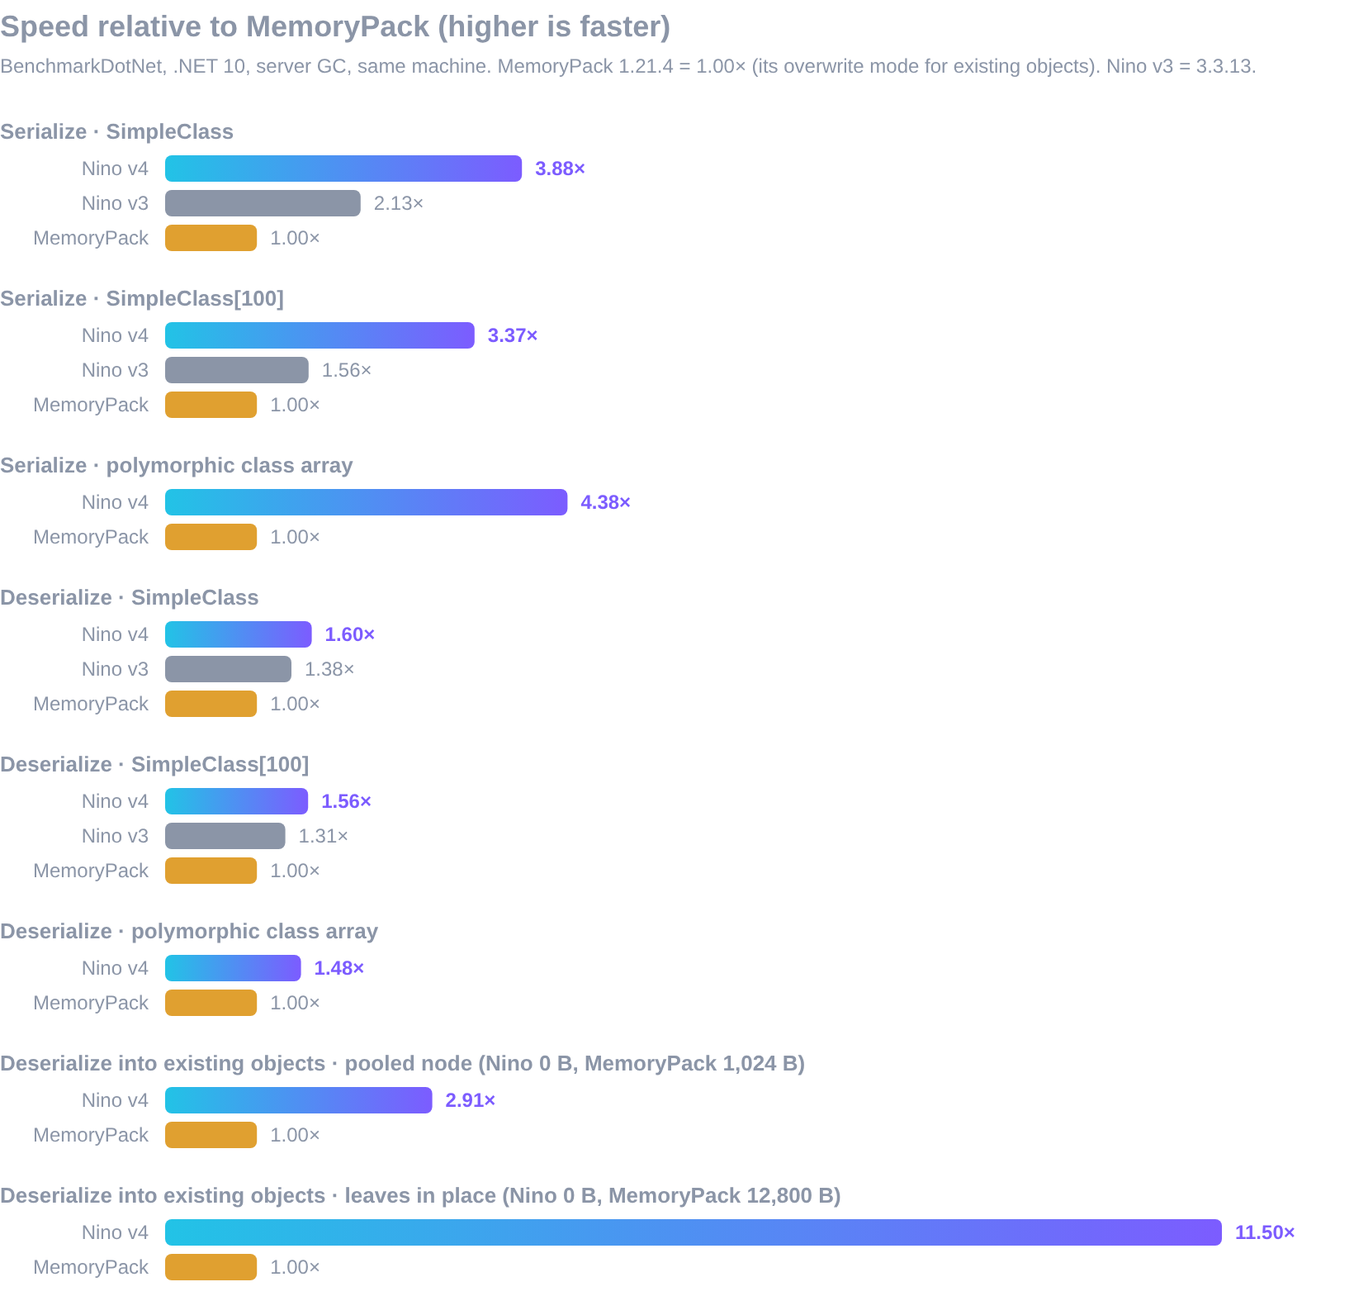
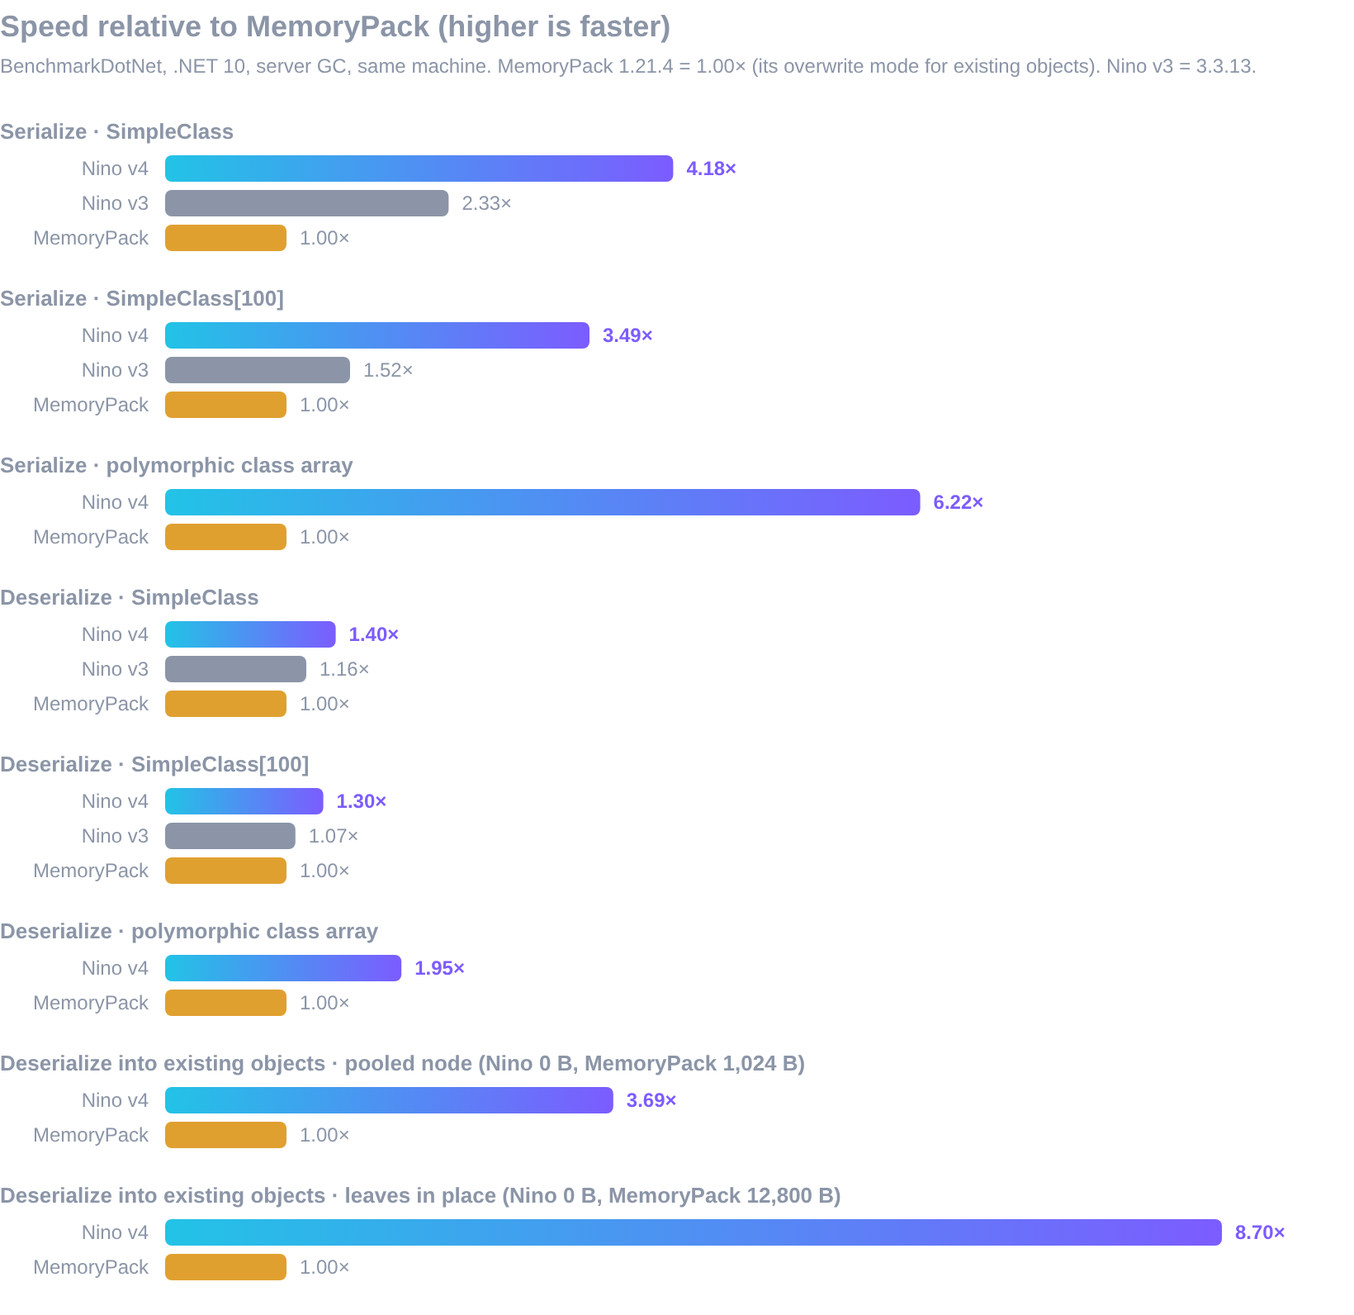
Update README benchmark numbers for v4.0.0-rc.7

diff --git a/docs/v4-benchmarks.md b/docs/v4-benchmarks.md
@@ -54,7 +54,7 @@ GC), all ten benchmark classes, v4 and MemoryPack 1.21.4 side by side: the relea
 runners per architecture and keeps each case's Nino and MemoryPack runs on one. v3 is Nino 3.3.13 from nuget.org, running a port of
 the same `SimpleTest` (same data, same attributes) on the same runner directly before the v4 session; it has no
 polymorphic, pooling, reference, version-tolerant or fixed-size benchmarks. These tables come from
-<!--bench:doc.source-->the performance report of [v4.0.0-rc.6](https://github.com/JasonXuDeveloper/Nino/releases/tag/v4.0.0-rc.6): BenchmarkDotNet 0.15.8, .NET 10.0.13, AMD EPYC 7763 2.59 GHz; v3 3.3.13 from NuGet ran directly before v4 on the same machine<!--/bench-->.
+<!--bench:doc.source-->the performance report of [v4.0.0-rc.7](https://github.com/JasonXuDeveloper/Nino/releases/tag/v4.0.0-rc.7): BenchmarkDotNet 0.15.8, .NET 10.0.13, INTEL XEON PLATINUM 8573C 3.50 GHz; v3 3.3.13 from NuGet ran directly before v4 on the same machine<!--/bench-->.
 
 Differences under 5% are reported as on par: MemoryPack runs in both sessions, and its two times show how much the
 runner moved. A time under 1 ns (about three clock cycles) cannot be told apart from another: reading a 40-byte struct
@@ -74,14 +74,14 @@ seeded, so every run serializes the same values.
 <!--bench:doc.table.serialize-->
 | Case | v4 | MemoryPack | v3 | v4 vs MemoryPack | v4 vs v3 |
 |---|---:|---:|---:|---:|---:|
-| `SimpleClass` | 102 ns | 396 ns | 186 ns | **3.88× faster** | **1.82× faster** |
-| `SimpleClass[100]` | 11.7 µs | 39.6 µs | 25.3 µs | **3.37× faster** | **2.16× faster** |
-| Polymorphic class | 6.64 µs | 35.7 µs | — | **5.38× faster** | — |
-| Polymorphic class array | 77.5 µs | 339 µs | — | **4.38× faster** | — |
-| Polymorphic `Foo[]` | 6.91 µs | 38.7 µs | — | **5.60× faster** | — |
-| `SimpleStruct` (`int` + `DateTime`) | 4.54 ns | 5.14 ns | 3.62 ns | **1.13× faster** | — |
-| `SimpleStruct[100]` | 21.9 ns | 22.5 ns | 22.5 ns | on par | on par |
-| `Vector4[10000]` | 3.31 µs | 3.44 µs | 3.31 µs | on par | on par |
+| `SimpleClass` | 69.6 ns | 291 ns | 125 ns | **4.18× faster** | **1.79× faster** |
+| `SimpleClass[100]` | 7.84 µs | 27.4 µs | 18.0 µs | **3.49× faster** | **2.29× faster** |
+| Polymorphic class | 6.30 µs | 43.0 µs | — | **6.83× faster** | — |
+| Polymorphic class array | 58.8 µs | 365 µs | — | **6.22× faster** | — |
+| Polymorphic `Foo[]` | 6.86 µs | 39.5 µs | — | **5.76× faster** | — |
+| `SimpleStruct` (`int` + `DateTime`) | < 1 ns | 2.44 ns | 1.28 ns | **faster** (too fast to measure) | **faster** (too fast to measure) |
+| `SimpleStruct[100]` | 11.7 ns | 14.2 ns | 13.2 ns | **1.22× faster** | **1.13× faster** |
+| `Vector4[10000]` | 3.57 µs | 3.53 µs | 3.64 µs | on par | on par |
 <!--/bench-->
 
 `SimpleStruct` is declared with `[StructLayout(LayoutKind.Sequential, Pack = 4)]`: 12 bytes, no padding, so every
@@ -96,14 +96,14 @@ earlier run with the padded struct, that masked copy made `SimpleStruct[100]` se
 <!--bench:doc.table.deserialize-->
 | Case | v4 | MemoryPack | v3 | v4 vs MemoryPack | v4 vs v3 |
 |---|---:|---:|---:|---:|---:|
-| `SimpleClass` | 463 ns | 739 ns | 537 ns | **1.60× faster** | **1.16× faster** |
-| `SimpleClass[100]` | 48.2 µs | 75.1 µs | 57.4 µs | **1.56× faster** | **1.19× faster** |
-| Polymorphic class | 17.8 µs | 30.2 µs | — | **1.69× faster** | — |
-| Polymorphic class array | 258 µs | 382 µs | — | **1.48× faster** | — |
-| Polymorphic `Foo[]` | 15.5 µs | 28.9 µs | — | **1.87× faster** | — |
-| `SimpleStruct` (`int` + `DateTime`) | < 1 ns | 1.46 ns | < 1 ns | **faster** (too fast to measure) | on par |
-| `SimpleStruct[100]` | 85.4 ns | 101 ns | 86.1 ns | **1.18× faster** | on par |
-| `Vector4[10000]` | 124 µs | 121 µs | 121 µs | on par | on par |
+| `SimpleClass` | 366 ns | 514 ns | 443 ns | **1.40× faster** | **1.21× faster** |
+| `SimpleClass[100]` | 39.2 µs | 51.1 µs | 47.6 µs | **1.30× faster** | **1.21× faster** |
+| Polymorphic class | 17.9 µs | 30.6 µs | — | **1.71× faster** | — |
+| Polymorphic class array | 202 µs | 392 µs | — | **1.95× faster** | — |
+| Polymorphic `Foo[]` | 15.5 µs | 28.3 µs | — | **1.83× faster** | — |
+| `SimpleStruct` (`int` + `DateTime`) | < 1 ns | < 1 ns | < 1 ns | on par | on par |
+| `SimpleStruct[100]` | 76.9 ns | 88.7 ns | 82.0 ns | **1.15× faster** | **1.07× faster** |
+| `Vector4[10000]` | 96.2 µs | 95.3 µs | 97.5 µs | on par | on par |
 <!--/bench-->
 
 
@@ -123,10 +123,10 @@ Nino can deserialize into an existing object graph (reuse deserialization) and t
 <!--bench:doc.table.reuse-->
 | Case | Nino new | Nino reusing | MemoryPack new | MemoryPack overwrite | Nino reusing vs overwrite |
 |---|---:|---:|---:|---:|---:|
-| Pooled node | 581 ns | **206 ns** (0 B) | 687 ns | 597 ns (1,024 B) | **2.91× faster** |
-| Pooled leaves, in place | 3.17 µs | **486 ns** (0 B) | 3.86 µs | 5.59 µs (12,800 B) | **11.50× faster** |
-| Pooled leaves, pooled elements | 3.17 µs | **3.47 µs** (856 B) | 3.86 µs | 5.59 µs (12,800 B) | **1.61× faster** |
-| Pooled class | 470 ns | **298 ns** (0 B) | 708 ns | 606 ns (1,080 B) | **2.03× faster** |
+| Pooled node | 240 ns | **70.3 ns** (0 B) | 319 ns | 259 ns (1,024 B) | **3.69× faster** |
+| Pooled leaves, in place | 1.61 µs | **257 ns** (0 B) | 1.89 µs | 2.24 µs (12,800 B) | **8.70× faster** |
+| Pooled leaves, pooled elements | 1.61 µs | **1.36 µs** (773 B) | 1.89 µs | 2.24 µs (12,800 B) | **1.64× faster** |
+| Pooled class | 391 ns | **181 ns** (0 B) | 523 ns | 443 ns (1,080 B) | **2.45× faster** |
 <!--/bench-->
 
 The "new" columns allocate the same bytes in both serializers. Reusing is where v4 pulls away: in-place reuse
@@ -153,18 +153,18 @@ MemoryPack writes and parses the zone's whole serialized string on every call.
 <!--bench:doc.table.extra-->
 | Case | Serialize v4 | MemoryPack | v4 vs MemoryPack | Deserialize v4 | MemoryPack | v4 vs MemoryPack |
 |---|---:|---:|---:|---:|---:|---:|
-| Object graph, 200 tracked nodes | 5.63 µs | 29.7 µs | **5.27× faster** | 6.11 µs | 20.3 µs | **3.32× faster** |
-| `TolerantClass` | 107 ns | 513 ns | **4.78× faster** | 506 ns | 814 ns | **1.61× faster** |
-| `TolerantClass[100]` | 12.4 µs | 52.6 µs | **4.26× faster** | 52.9 µs | 84.2 µs | **1.59× faster** |
-| `FixedStruct` | 9.36 ns | 9.19 ns | on par | < 1 ns | 1.04 ns | **faster** (too fast to measure) |
-| `FixedClass` | 10.3 ns | 24.9 ns | **2.42× faster** | 10.4 ns | 22.7 ns | **2.19× faster** |
-| `FixedClass[100]` | 748 ns | 1.74 µs | **2.33× faster** | 1.11 µs | 1.34 µs | **1.21× faster** |
-| `List<Player>`, 100 | 10.6 µs | 26.0 µs | **2.45× faster** | 32.0 µs | 44.9 µs | **1.40× faster** |
-| `List<Order>`, 100 | 9.71 µs | 15.5 µs | **1.60× faster** | 25.9 µs | 32.9 µs | **1.27× faster** |
-| `List<Shape>`, 1,000 (abstract base) | 1.84 µs | 22.9 µs | **12.46× faster** | 11.0 µs | 16.1 µs | **1.47× faster** |
-| `TreeNode`, 1,365 nodes | 15.9 µs | 20.6 µs | **1.29× faster** | 70.3 µs | 73.8 µs | on par |
-| `InventoryItem[1000]` (padded struct) | 90.7 ns | 93.2 ns | on par | 448 ns | 460 ns | on par |
-| `Dictionary<string, string>`, 1,000 | 8.61 µs | 32.7 µs | **3.80× faster** | 40.5 µs | 63.4 µs | **1.56× faster** |
+| Object graph, 200 tracked nodes | 3.00 µs | 17.6 µs | **5.87× faster** | 3.46 µs | 11.7 µs | **3.39× faster** |
+| `TolerantClass` | 76.1 ns | 416 ns | **5.47× faster** | 328 ns | 536 ns | **1.64× faster** |
+| `TolerantClass[100]` | 8.66 µs | 40.0 µs | **4.61× faster** | 32.2 µs | 54.7 µs | **1.70× faster** |
+| `FixedStruct` | 7.88 ns | 8.02 ns | on par | < 1 ns | 1.08 ns | **faster** (too fast to measure) |
+| `FixedClass` | 8.76 ns | 24.8 ns | **2.83× faster** | 8.06 ns | 22.8 ns | **2.83× faster** |
+| `FixedClass[100]` | 563 ns | 1.75 µs | **3.11× faster** | 1.02 µs | 1.38 µs | **1.35× faster** |
+| `List<Player>`, 100 | 8.82 µs | 25.1 µs | **2.85× faster** | 32.7 µs | 41.9 µs | **1.28× faster** |
+| `List<Order>`, 100 | 7.78 µs | 14.8 µs | **1.91× faster** | 24.3 µs | 32.9 µs | **1.35× faster** |
+| `List<Shape>`, 1,000 (abstract base) | 2.04 µs | 22.9 µs | **11.22× faster** | 10.8 µs | 16.6 µs | **1.54× faster** |
+| `TreeNode`, 1,365 nodes | 16.4 µs | 20.0 µs | **1.22× faster** | 53.0 µs | 66.7 µs | **1.26× faster** |
+| `InventoryItem[1000]` (padded struct) | 137 ns | 105 ns | — | 390 ns | 416 ns | **1.07× faster** |
+| `Dictionary<string, string>`, 1,000 | 8.69 µs | 32.7 µs | **3.77× faster** | 31.8 µs | 54.1 µs | **1.70× faster** |
 <!--/bench-->
 
 Deserializing `FixedStruct` is one 40-byte copy, about a clock cycle in both. Serializing it is an allocation

diff --git a/README.md b/README.md
@@ -21,7 +21,7 @@ messaging, caching and storage on .NET, with Unity, Godot and HybridCLR support.
 [**vs MemoryPack**](https://nino.xgamedev.net/en/docs/v4/vs-memorypack) ·
 [**中文**](https://github.com/JasonXuDeveloper/Nino/blob/main/README.zh.md)
 
-**Up to <!--bench:ser.max-->5.6<!--/bench-->× faster** serialization and **up to <!--bench:reuse.inplace-->11.5<!--/bench-->× faster** in-place deserialization than MemoryPack<br>
+**Up to <!--bench:ser.max-->6.8<!--/bench-->× faster** serialization and **up to <!--bench:reuse.inplace-->8.7<!--/bench-->× faster** in-place deserialization than MemoryPack<br>
 **Zero GC** allocations on hot paths · **221× faster** builds than v3
 
 </div>
@@ -40,18 +40,18 @@ messaging, caching and storage on .NET, with Unity, Godot and HybridCLR support.
   <img src="https://raw.githubusercontent.com/JasonXuDeveloper/Nino/main/docs/assets/benchmark.png" alt="Nino v4 vs Nino v3 vs MemoryPack: serialize and deserialize speed" width="760">
 </p>
 
-<sub>BenchmarkDotNet <!--bench:env.bdn-->0.15.8<!--/bench-->, <!--bench:env.runtime-->.NET 10.0.13<!--/bench-->, server GC, <!--bench:env.cpu-->AMD EPYC 7763 2.59 GHz<!--/bench-->; Nino v4 and MemoryPack 1.21.4 in one run, Nino 3.3.13 from NuGet <!--bench:v3.when-->directly before it<!--/bench--> on the same machine. Payloads are about the same size (`SimpleClass`: <!--bench:payload.v4-->1,104<!--/bench--> bytes in v4, 1,152 in v3, <!--bench:payload.memorypack-->1,148<!--/bench--> in MemoryPack). Every case and the method: [docs/v4-benchmarks.md](https://github.com/JasonXuDeveloper/Nino/blob/main/docs/v4-benchmarks.md); the notes of each release carry that release's numbers.</sub>
+<sub>BenchmarkDotNet <!--bench:env.bdn-->0.15.8<!--/bench-->, <!--bench:env.runtime-->.NET 10.0.13<!--/bench-->, server GC, <!--bench:env.cpu-->INTEL XEON PLATINUM 8573C 3.50 GHz<!--/bench-->; Nino v4 and MemoryPack 1.21.4 in one run, Nino 3.3.13 from NuGet <!--bench:v3.when-->directly before it<!--/bench--> on the same machine. Payloads are about the same size (`SimpleClass`: <!--bench:payload.v4-->1,104<!--/bench--> bytes in v4, 1,152 in v3, <!--bench:payload.memorypack-->1,148<!--/bench--> in MemoryPack). Every case and the method: [docs/v4-benchmarks.md](https://github.com/JasonXuDeveloper/Nino/blob/main/docs/v4-benchmarks.md); the notes of each release carry that release's numbers.</sub>
 
 ## Why Nino
 
-- **Faster than MemoryPack.** Serializing classes and polymorphic types is <!--bench:ser.range-->3.4–5.6<!--/bench-->× faster. Deserializing them is
-  <!--bench:deser.range-->1.5–1.9<!--/bench-->× faster, and raw struct arrays are at least on par (a block copy in both).
+- **Faster than MemoryPack.** Serializing classes and polymorphic types is <!--bench:ser.range-->3.5–6.8<!--/bench-->× faster. Deserializing them is
+  <!--bench:deser.range-->1.3–1.9<!--/bench-->× faster, and raw struct arrays are at least on par (a block copy in both).
 - **Safe for untrusted data.** Crafted bytes cannot crash the process, allocate out of proportion to their size or make
   Nino create a type you did not declare; every invalid input throws one `InvalidOperationException`.
   [Invalid data](https://nino.xgamedev.net/en/docs/v4/basic#invalid-data).
 - **Zero allocation.** Serializing into a buffer (`IBufferWriter<byte>`) allocates nothing. Deserializing into existing or pooled objects
   (`[NinoPooled]`, reuse deserialization into existing objects) allocates nothing either (a string whose text is unchanged is kept),
-  and is up to <!--bench:reuse.inplace-->11.5<!--/bench-->× faster than MemoryPack's overwrite mode.
+  and is up to <!--bench:reuse.inplace-->8.7<!--/bench-->× faster than MemoryPack's overwrite mode.
 - **Everything happens at compile time.** A source generator writes each formatter. There is no reflection,
   no IL emit, no registration and no init call, so it works on IL2CPP, NativeAOT and HybridCLR hot updates;
   Nino.Core is annotated for trimming and Native AOT. With the .NET 8 SDK or later, calls are intercepted to the
@@ -184,10 +184,10 @@ and every invalid input throws one exception ([details](https://nino.xgamedev.ne
 | | Nino v4 | MemoryPack 1.21.4 |
 |---|---|---|
 | Untrusted input | **built for it**: bounded allocation and stack, one exception type | trusted data only, per its README |
-| Serialize classes and polymorphic types | **<!--bench:ser.range-->3.4–5.6<!--/bench-->× faster** | |
-| Deserialize classes and polymorphic types | **<!--bench:deser.range-->1.5–1.9<!--/bench-->× faster** | |
+| Serialize classes and polymorphic types | **<!--bench:ser.range-->3.5–6.8<!--/bench-->× faster** | |
+| Deserialize classes and polymorphic types | **<!--bench:deser.range-->1.3–1.9<!--/bench-->× faster** | |
 | Raw struct arrays | at least on par (a block copy in both); v4 zeroes padding, so declare hot structs without it | copies padding as is |
-| Deserialize into existing objects | **0 B, up to <!--bench:reuse.inplace-->11.5<!--/bench-->× faster** (in place) | overwrite mode, allocates |
+| Deserialize into existing objects | **0 B, up to <!--bench:reuse.inplace-->8.7<!--/bench-->× faster** (in place) | overwrite mode, allocates |
 | Polymorphism | automatic type ids, any base class or interface, generic bases included | `[MemoryPackUnion]` tags you maintain, on interfaces and abstract classes, not on generic types |
 | Keyed members, reference tracking, object pools | ✅ | version tolerance and circular references, no pools |
 | Unity | ✅ 2022.3+, one OpenUPM package, `netstandard2.0` and `2.1`, HybridCLR without an init call | ✅ 2022.3.12f1+, NuGetForUnity plus a git package, `netstandard2.1` |
@@ -224,8 +224,8 @@ v4 is a rewrite of the runtime and the generator. **Its binary format is not com
 
 | v4 vs v3 (3.3.13) | |
 |---|---|
-| Serialize | <!--bench:v3.ser-->**1.82× faster** (class), **2.16× faster** (class array), on par (struct array)<!--/bench--> |
-| Deserialize | <!--bench:v3.deser-->**1.16× faster** (class), **1.19× faster** (class array), on par (struct), on par (struct array)<!--/bench-->, while adding reference tracking, reuse deserialization and payload validation |
+| Serialize | <!--bench:v3.ser-->**1.79× faster** (class), **2.29× faster** (class array), **faster** (struct, too fast to measure: under 1 ns), **1.13× faster** (struct array)<!--/bench--> |
+| Deserialize | <!--bench:v3.deser-->**1.21× faster** (class), **1.21× faster** (class array), on par (struct), **1.07× faster** (struct array)<!--/bench-->, while adding reference tracking, reuse deserialization and payload validation |
 | Compiling the generated code | **51× faster** at 330 types (42.9 s → 0.84 s), **221× faster** at 1,100 types (462 s → 2.1 s) |
 | Running the generator | **3.1× faster**; after an edit, only that type is re-generated (**8.3× faster**) |
 | Generated code | **14× smaller** source, **5× smaller** IL |

diff --git a/README.zh.md b/README.zh.md
@@ -21,7 +21,7 @@
 [**对比 MemoryPack**](https://nino.xgamedev.net/zh/docs/v4/vs-memorypack) ·
 [**English**](https://github.com/JasonXuDeveloper/Nino/blob/main/README.md)
 
-序列化比 MemoryPack **最高快 <!--bench:ser.max-->5.6<!--/bench--> 倍**，原地反序列化**最高快 <!--bench:reuse.inplace-->11.5<!--/bench--> 倍**<br>
+序列化比 MemoryPack **最高快 <!--bench:ser.max-->6.8<!--/bench--> 倍**，原地反序列化**最高快 <!--bench:reuse.inplace-->8.7<!--/bench--> 倍**<br>
 热路径 **零 GC 分配** · 编译比 v3 **快 221 倍**
 
 </div>
@@ -39,15 +39,15 @@
   <img src="https://raw.githubusercontent.com/JasonXuDeveloper/Nino/main/docs/assets/benchmark.png" alt="Nino v4、Nino v3 与 MemoryPack 的序列化/反序列化速度对比" width="760">
 </p>
 
-<sub>BenchmarkDotNet <!--bench:env.bdn-->0.15.8<!--/bench-->，<!--bench:env.runtime-->.NET 10.0.13<!--/bench-->，服务器 GC，<!--bench:env.cpu-->AMD EPYC 7763 2.59 GHz<!--/bench-->；Nino v4 与 MemoryPack 1.21.4 在同一次运行中测得，NuGet 上的 Nino 3.3.13 在同一台机器上<!--bench:v3.when-->紧接其前跑一次<!--/bench-->。数据大小基本一致（`SimpleClass`：v4 <!--bench:payload.v4-->1,104<!--/bench--> 字节，v3 1,152 字节，MemoryPack <!--bench:payload.memorypack-->1,148<!--/bench--> 字节）。全部用例与测试方法见 [docs/v4-benchmarks.md](https://github.com/JasonXuDeveloper/Nino/blob/main/docs/v4-benchmarks.md)；每个版本的发布说明里有该版本的实测数据。</sub>
+<sub>BenchmarkDotNet <!--bench:env.bdn-->0.15.8<!--/bench-->，<!--bench:env.runtime-->.NET 10.0.13<!--/bench-->，服务器 GC，<!--bench:env.cpu-->INTEL XEON PLATINUM 8573C 3.50 GHz<!--/bench-->；Nino v4 与 MemoryPack 1.21.4 在同一次运行中测得，NuGet 上的 Nino 3.3.13 在同一台机器上<!--bench:v3.when-->紧接其前跑一次<!--/bench-->。数据大小基本一致（`SimpleClass`：v4 <!--bench:payload.v4-->1,104<!--/bench--> 字节，v3 1,152 字节，MemoryPack <!--bench:payload.memorypack-->1,148<!--/bench--> 字节）。全部用例与测试方法见 [docs/v4-benchmarks.md](https://github.com/JasonXuDeveloper/Nino/blob/main/docs/v4-benchmarks.md)；每个版本的发布说明里有该版本的实测数据。</sub>
 
 ## 为什么选 Nino
 
-- **比 MemoryPack 更快。** 类和多态类型的序列化快 <!--bench:ser.range-->3.4–5.6<!--/bench--> 倍，反序列化快 <!--bench:deser.range-->1.5–1.9<!--/bench--> 倍；原始结构体数组两者都是整块拷贝，性能至少持平。
+- **比 MemoryPack 更快。** 类和多态类型的序列化快 <!--bench:ser.range-->3.5–6.8<!--/bench--> 倍，反序列化快 <!--bench:deser.range-->1.3–1.9<!--/bench--> 倍；原始结构体数组两者都是整块拷贝，性能至少持平。
 - **可读取不可信数据。** 伪造的字节无法让进程崩溃、无法分配与自身大小不成比例的内存，也无法让 Nino 创建你没有声明的类型；
   所有无效输入都抛出同一种 `InvalidOperationException`。[无效数据](https://nino.xgamedev.net/zh/docs/v4/basic#invalid-data)。
 - **零分配。** 序列化到缓冲区（`IBufferWriter<byte>`）不分配内存。反序列化到已有对象或池化对象（`[NinoPooled]`、复用反序列化）同样不分配（内容不变的字符串直接保留），
-  比 MemoryPack 的覆盖写入最多快 <!--bench:reuse.inplace-->11.5<!--/bench--> 倍。
+  比 MemoryPack 的覆盖写入最多快 <!--bench:reuse.inplace-->8.7<!--/bench--> 倍。
 - **一切在编译期完成。** 源生成器为每个类型生成格式化器：没有反射、没有 IL emit、无需注册、无需初始化调用，
   因此 IL2CPP、NativeAOT 和 HybridCLR 热更都能直接用；Nino.Core 带有裁剪与 Native AOT 标注。使用 .NET 8 及以上 SDK 时，调用会被拦截到确切的格式化器，没有虚调用。
 - **编译快。** 生成器是真正增量的：每个类型一个文件，只重新生成你改动的类型。相比 v3，生成代码小 14 倍，编译快 51 倍（330 个类型）到 221 倍（1,100 个类型）。
@@ -169,10 +169,10 @@ Nino 正是为这类输入设计的：长度和分配以收到的字节数为上
 | | Nino v4 | MemoryPack 1.21.4 |
 |---|---|---|
 | 不可信输入 | **设计目标**：分配和栈用量有上限，只有一种异常 | 按其 README，仅用于可信数据 |
-| 序列化类和多态类型 | **快 <!--bench:ser.range-->3.4–5.6<!--/bench--> 倍** | |
-| 反序列化类和多态类型 | **快 <!--bench:deser.range-->1.5–1.9<!--/bench--> 倍** | |
+| 序列化类和多态类型 | **快 <!--bench:ser.range-->3.5–6.8<!--/bench--> 倍** | |
+| 反序列化类和多态类型 | **快 <!--bench:deser.range-->1.3–1.9<!--/bench--> 倍** | |
 | 原始结构体数组 | 至少持平（两者都是整块拷贝）；v4 会清零填充字节，热点结构体建议声明为无填充 | 原样复制填充字节 |
-| 反序列化到已有对象 | **0 B，最多快 <!--bench:reuse.inplace-->11.5<!--/bench--> 倍**（原地复用） | 覆盖写入，有分配 |
+| 反序列化到已有对象 | **0 B，最多快 <!--bench:reuse.inplace-->8.7<!--/bench--> 倍**（原地复用） | 覆盖写入，有分配 |
 | 多态 | 自动类型 ID，任何基类或接口，包括泛型基类 | 需要维护 `[MemoryPackUnion]` 标签，只能用于接口和抽象类，不支持泛型类型 |
 | keyed 成员、引用追踪、对象池 | ✅ | 有版本兼容和循环引用，没有对象池 |
 | Unity | ✅ 2022.3+，一个 OpenUPM 包，`netstandard2.0` 和 `2.1`，HybridCLR 无需初始化调用 | ✅ 2022.3.12f1+，NuGetForUnity 加一个 git 包，`netstandard2.1` |
@@ -202,8 +202,8 @@ v4 重写了运行时和生成器。**二进制格式与 v3 不兼容。**
 
 | v4 对比 v3（3.3.13） | |
 |---|---|
-| 序列化 | <!--bench:v3.ser-->类**快 1.82 倍**，类数组**快 2.16 倍**，结构体数组持平<!--/bench--> |
-| 反序列化 | <!--bench:v3.deser-->类**快 1.16 倍**，类数组**快 1.19 倍**，结构体持平，结构体数组持平<!--/bench-->，同时多了引用追踪、复用反序列化和数据校验 |
+| 序列化 | <!--bench:v3.ser-->类**快 1.79 倍**，类数组**快 2.29 倍**，结构体**更快**（快到测不出，不到 1 ns），结构体数组**快 1.13 倍**<!--/bench--> |
+| 反序列化 | <!--bench:v3.deser-->类**快 1.21 倍**，类数组**快 1.21 倍**，结构体持平，结构体数组**快 1.07 倍**<!--/bench-->，同时多了引用追踪、复用反序列化和数据校验 |
 | 编译生成代码 | 330 个类型**快 51 倍**（42.9 秒 → 0.84 秒），1,100 个类型**快 221 倍**（462 秒 → 2.1 秒） |
 | 运行生成器 | **快 3.1 倍**；改动后只重新生成该类型（**快 8.3 倍**） |
 | 生成代码 | 源码**小 14 倍**，IL **小 5 倍** |
